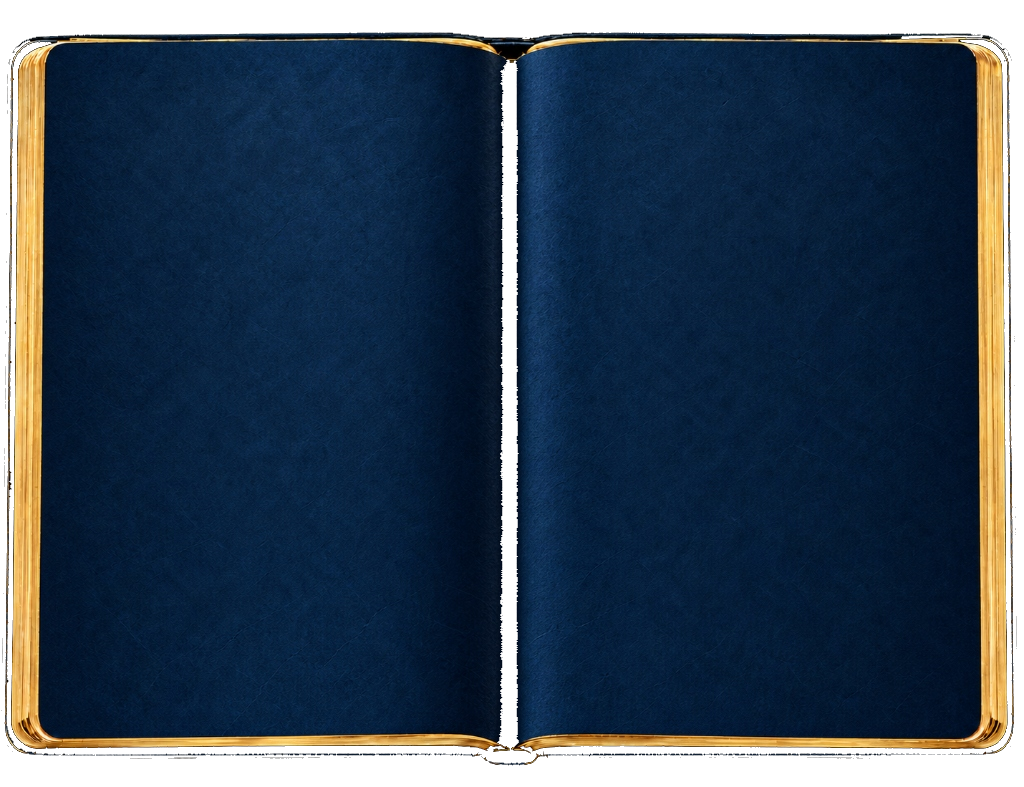
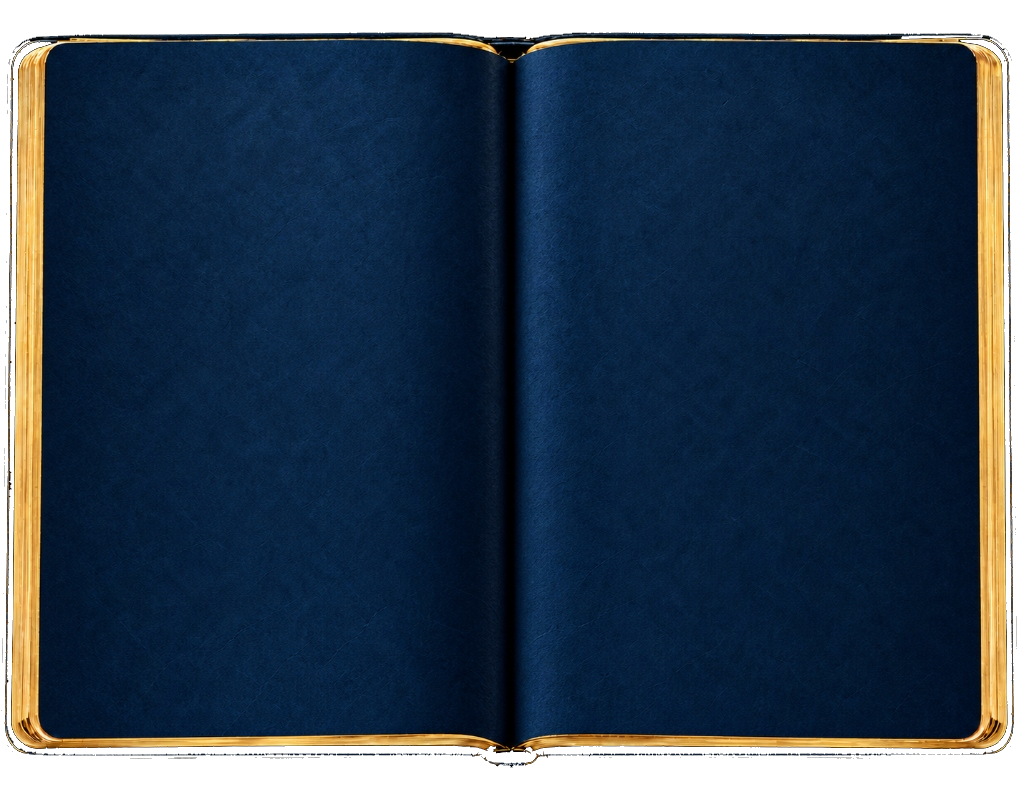
fix(contacts): repair transparent spine gutter on dark contacts ledger image

Changed region(s): [[0.4688, 0.061, 0.5312, 0.9759]]

diff --git a/client/src/components/contact/ledger/ContactsLedgerView.tsx b/client/src/components/contact/ledger/ContactsLedgerView.tsx
@@ -387,8 +387,8 @@ export default function ContactsLedgerView({
       style={{
         backgroundImage: `url(${
           isLight
-            ? "/decor/contacts-ledger-light.png"
-            : "/decor/contacts-ledger-dark.png"
+            ? "/decor/contacts-ledger-light.png?v=20261006"
+            : "/decor/contacts-ledger-dark.png?v=20261006"
         })`,
         backgroundColor: "transparent",
         backgroundSize: "100% 100%",
